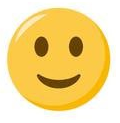
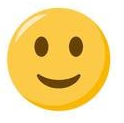
messages

diff --git a/templates/AppComments/index.html b/templates/AppComments/index.html
@@ -137,7 +137,7 @@
                 </span>
 
                 <span role="button" aria-pressed="true"   style="cursor: pointer" onclick="NormalCall({{comment.id}});" > 
-                  <img class=" " id="norImg-{{comment.id}}" src= {% static 'img/normal.png' %}  style="width: 10%" /> 
+                  <img class=" " id="norImg-{{comment.id}}" src= {% static 'img/normal2.png' %}  style="width: 10%" /> 
                 </span>
 
               </div>
